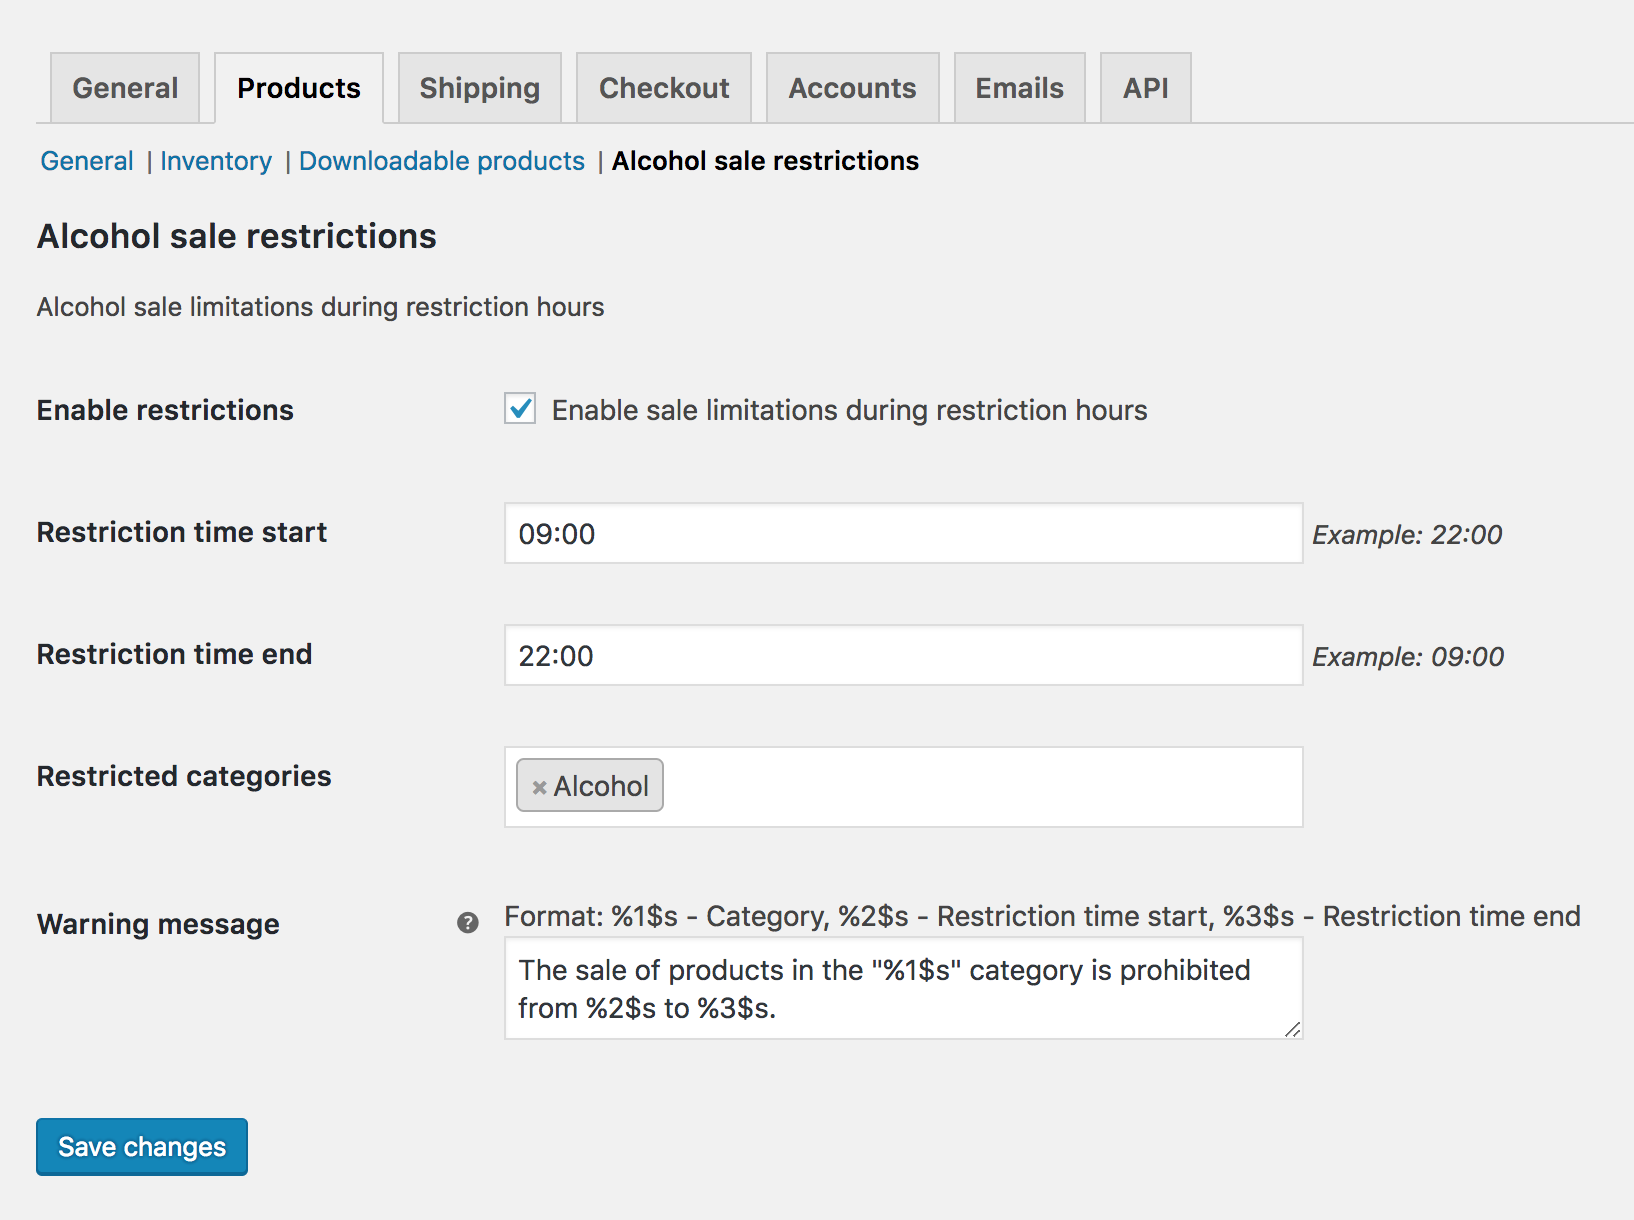
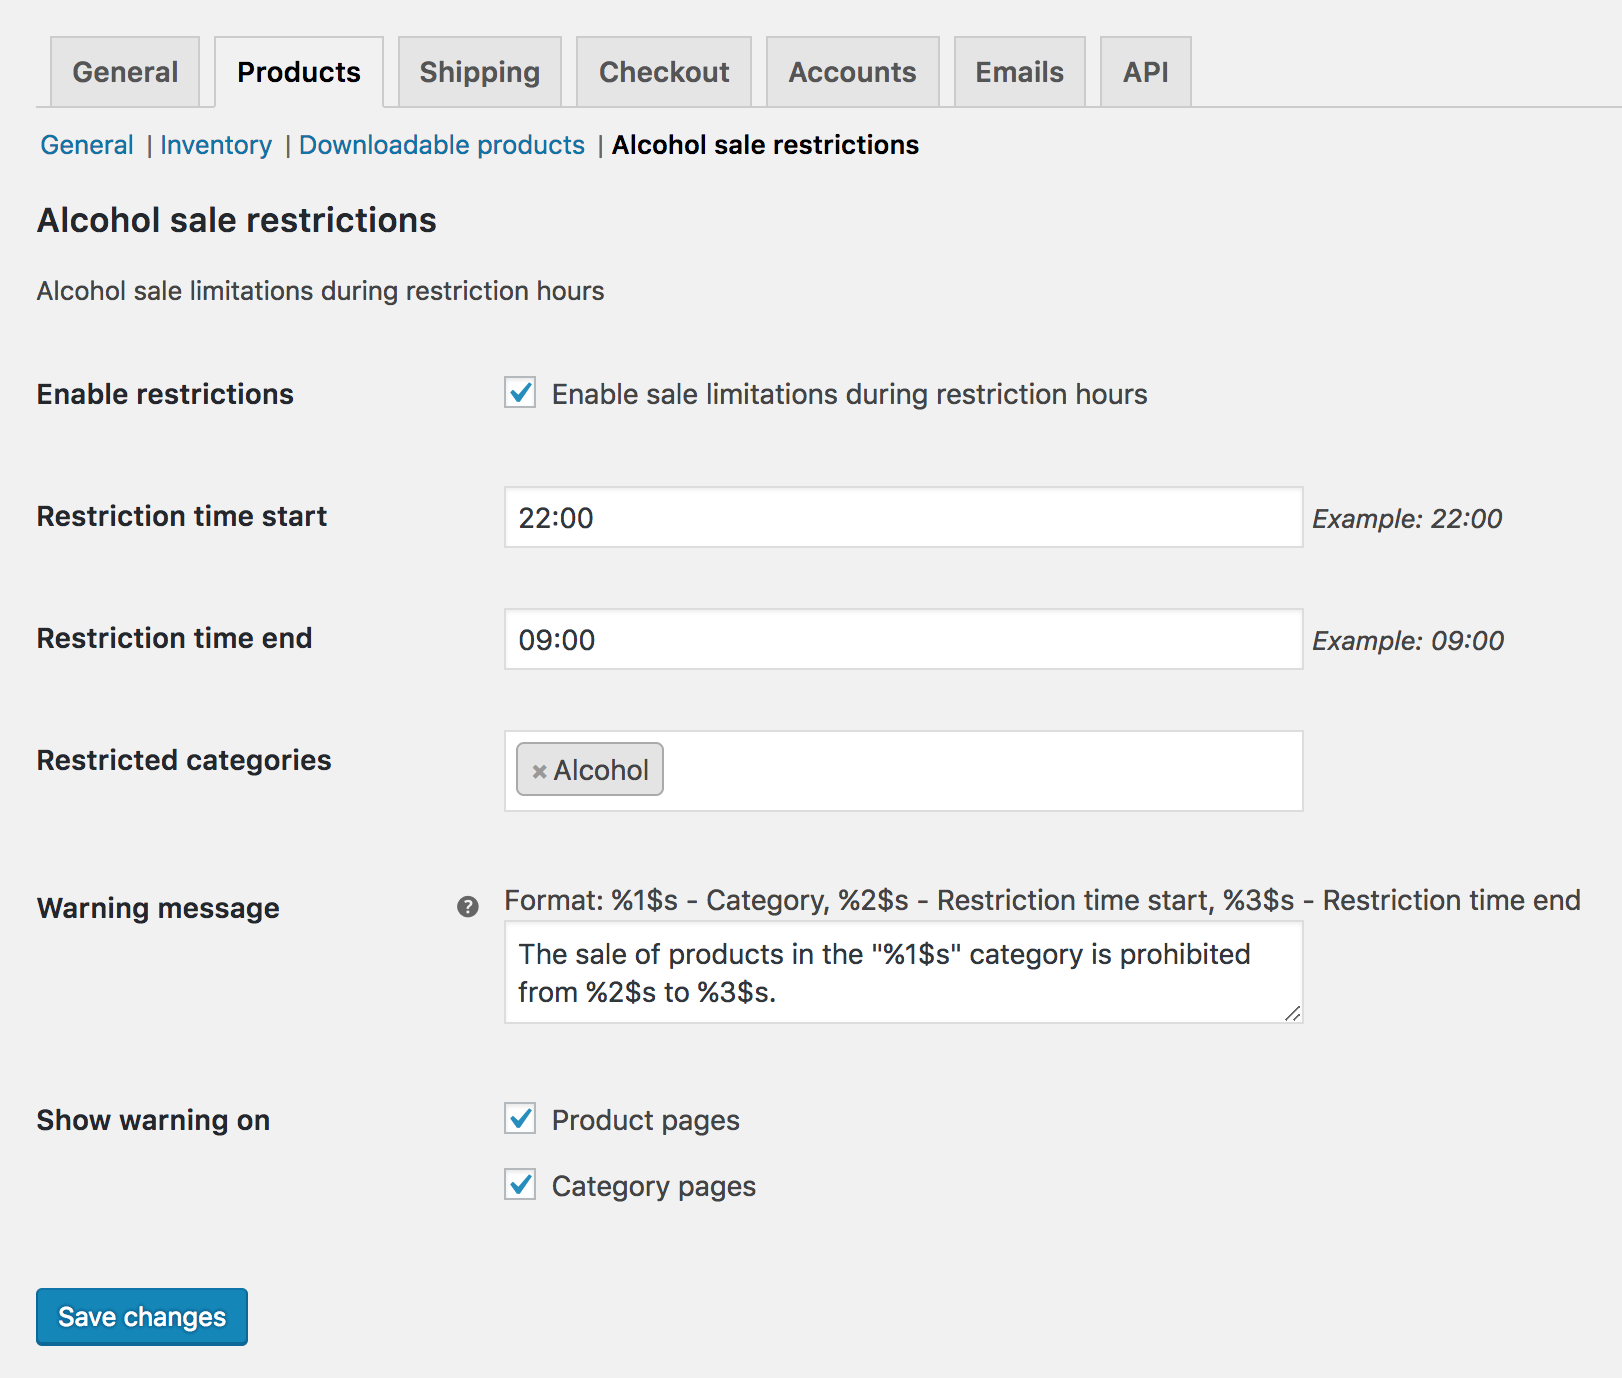
Display warning options

diff --git a/wc-alcohol.php b/wc-alcohol.php
@@ -3,7 +3,7 @@
  * Plugin Name: WooCommerce Alcohol Sale Restrictions
  * Description: WooCommerce alcohol sale limitations during restriction hours
  * Plugin URI: https://wordpress.org/plugins/wc-alcohol/
- * Version: 1.0.1
+ * Version: 1.0.2
  * Author: Alexander Minza
  * Author URI: http://alexminza.com/
  * Developer: Alexander Minza
@@ -37,6 +37,8 @@ if(!class_exists(WC_Alcohol::class)) :
 		const MOD_SETTINGS_RESTRICTION_END   = self::MOD_SETTINGS_PREFIX . 'restriction_end';
 		const MOD_SETTINGS_CATEGORY          = self::MOD_SETTINGS_PREFIX . 'category';
 		const MOD_SETTINGS_WARNING           = self::MOD_SETTINGS_PREFIX . 'warning';
+		const MOD_SETTINGS_WARN_PRODUCT      = self::MOD_SETTINGS_PREFIX . 'warn_product';
+		const MOD_SETTINGS_WARN_CATEGORY     = self::MOD_SETTINGS_PREFIX . 'warn_category';
 
 		const RESTRICTION_START    = '22:00';
 		const RESTRICTION_END      = '09:00';
@@ -61,6 +63,8 @@ if(!class_exists(WC_Alcohol::class)) :
 			$this->restriction_end       = get_option(self::MOD_SETTINGS_RESTRICTION_END, self::RESTRICTION_END);
 			$this->restricted_categories = get_option(self::MOD_SETTINGS_CATEGORY, self::RESTRICTION_CATEGORY);
 			$this->warning_template      = get_option(self::MOD_SETTINGS_WARNING);
+			$this->warn_product          = 'yes' === get_option(self::MOD_SETTINGS_WARN_PRODUCT, 'yes');
+			$this->warn_category         = 'yes' === get_option(self::MOD_SETTINGS_WARN_CATEGORY, 'yes');
 
 			add_action('init', array($this, 'init'));
 		}
@@ -102,7 +106,7 @@ if(!class_exists(WC_Alcohol::class)) :
 			if(!$this->validate_settings())
 				$this->enabled = false;
 
-			//region Add WC hooks
+			//region Add WooCommerce hooks
 			if(is_admin()) {
 				add_filter('woocommerce_get_sections_products', array($this, 'get_sections_products'));
 				add_filter('woocommerce_get_settings_products', array($this, 'get_settings_products'), 10, 2);
@@ -111,8 +115,12 @@ if(!class_exists(WC_Alcohol::class)) :
 
 			if($this->enabled) {
 				add_filter('woocommerce_is_purchasable', array($this, 'is_purchasable'), 10, 2);
-				add_action('woocommerce_single_product_summary', array($this, 'single_product_summary'), 20);
-				add_action('woocommerce_archive_description', array($this, 'archive_description'), 10);
+
+				if($this->warn_product)
+					add_action('woocommerce_single_product_summary', array($this, 'single_product_summary'), 20);
+				
+				if($this->warn_category)
+					add_action('woocommerce_archive_description', array($this, 'archive_description'), 10);
 			}
 			//endregion
 		}
@@ -177,7 +185,7 @@ if(!class_exists(WC_Alcohol::class)) :
 					'type'     => 'checkbox',
 					'name'     => __('Enable restrictions', self::MOD_TEXT_DOMAIN),
 					'desc'     => __('Enable sale limitations during restriction hours', self::MOD_TEXT_DOMAIN),
-					'default'  => 'yes'
+					'default'  => 'no'
 				);
 
 				$settings_mod[] = array(
@@ -215,6 +223,23 @@ if(!class_exists(WC_Alcohol::class)) :
 					'desc_tip' => __('Warning message displayed to the customers when trying to purchase products from the selected categories during restriction hours.', self::MOD_TEXT_DOMAIN),
 					'desc'     => __('Format: %1$s - Category, %2$s - Restriction time start, %3$s - Restriction time end', self::MOD_TEXT_DOMAIN),
 					'default'  => __('The sale of products in the "%1$s" category is prohibited from %2$s to %3$s.', self::MOD_TEXT_DOMAIN)
+				);
+
+				$settings_mod[] = array(
+					'id'       => self::MOD_SETTINGS_WARN_PRODUCT,
+					'type'     => 'checkbox',
+					'title'    => __('Show warning on', self::MOD_TEXT_DOMAIN),
+					'desc'     => __('Product pages', self::MOD_TEXT_DOMAIN),
+					'default'  => 'yes',
+					'checkboxgroup' => 'start'
+				);
+
+				$settings_mod[] = array(
+					'id'       => self::MOD_SETTINGS_WARN_CATEGORY,
+					'type'     => 'checkbox',
+					'desc'     => __('Category pages', self::MOD_TEXT_DOMAIN),
+					'default'  => 'yes',
+					'checkboxgroup' => 'end'
 				);
 
 				$settings_mod[] = array(
@@ -312,7 +337,7 @@ if(!class_exists(WC_Alcohol::class)) :
 				return true;
 		}
 
-		//region WC hooks
+		//region WooCommerce hooks
 		function is_purchasable($is_purchasable, $object) {
 			if(!$this->validate_product($object->get_id(), false))
 				$is_purchasable = false;
@@ -321,6 +346,9 @@ if(!class_exists(WC_Alcohol::class)) :
 		}
 
 		public function single_product_summary() {
+			if(!$this->warn_product)
+				return;
+
 			global $product;
 			$product_id = $product->get_id();
 
@@ -332,6 +360,9 @@ if(!class_exists(WC_Alcohol::class)) :
 		}
 
 		public function archive_description() {
+			if(!$this->warn_category)
+				return;
+
 			if (is_product_category()) {
 				global $wp_query;
 				$category = $wp_query->get_queried_object();
@@ -374,5 +405,6 @@ if(!class_exists(WC_Alcohol::class)) :
 		}
 	}
 
+	//initialize plugin
 	add_action('plugins_loaded', array(WC_Alcohol::class, 'get_instance'));
 endif;
